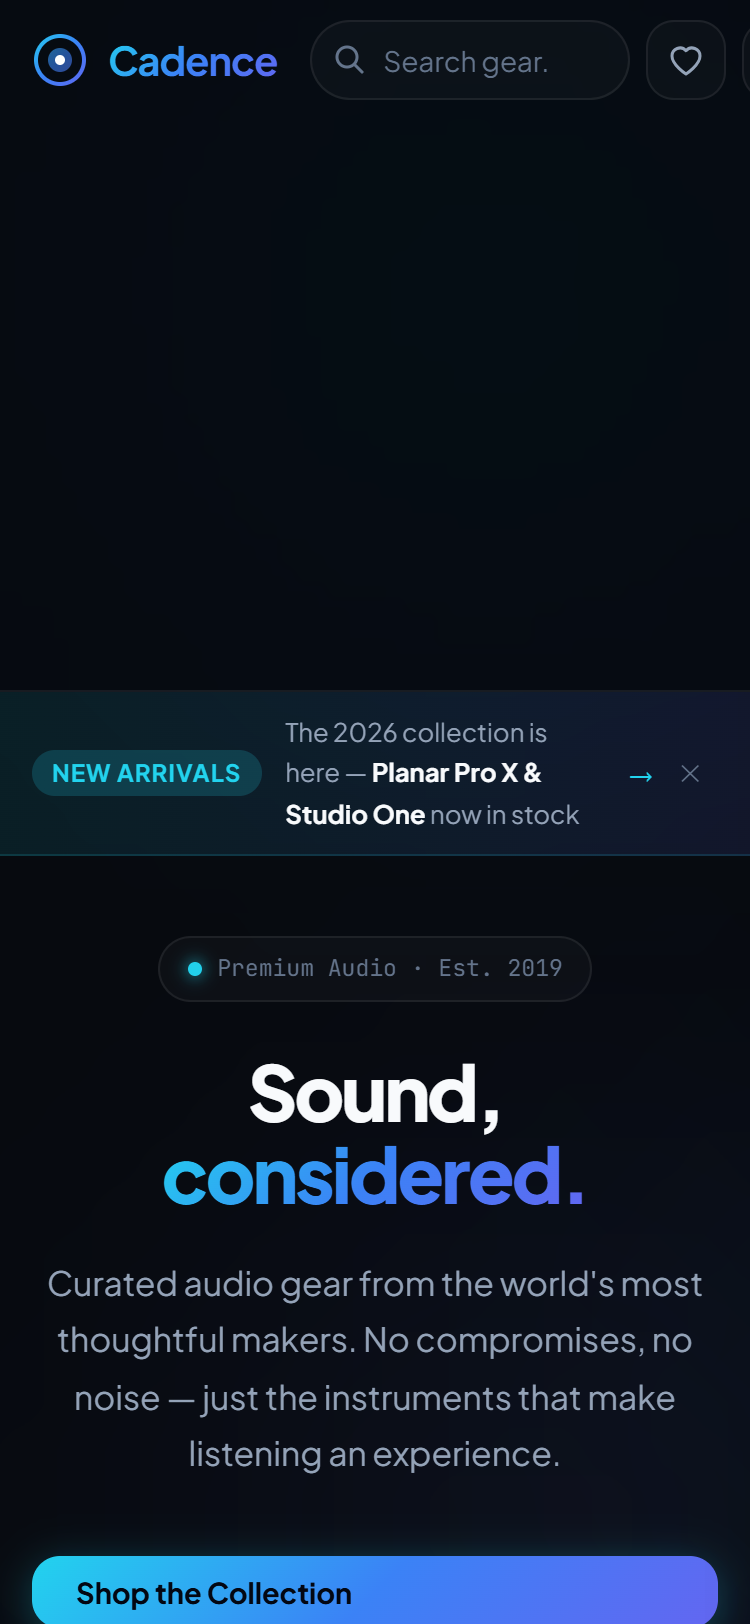
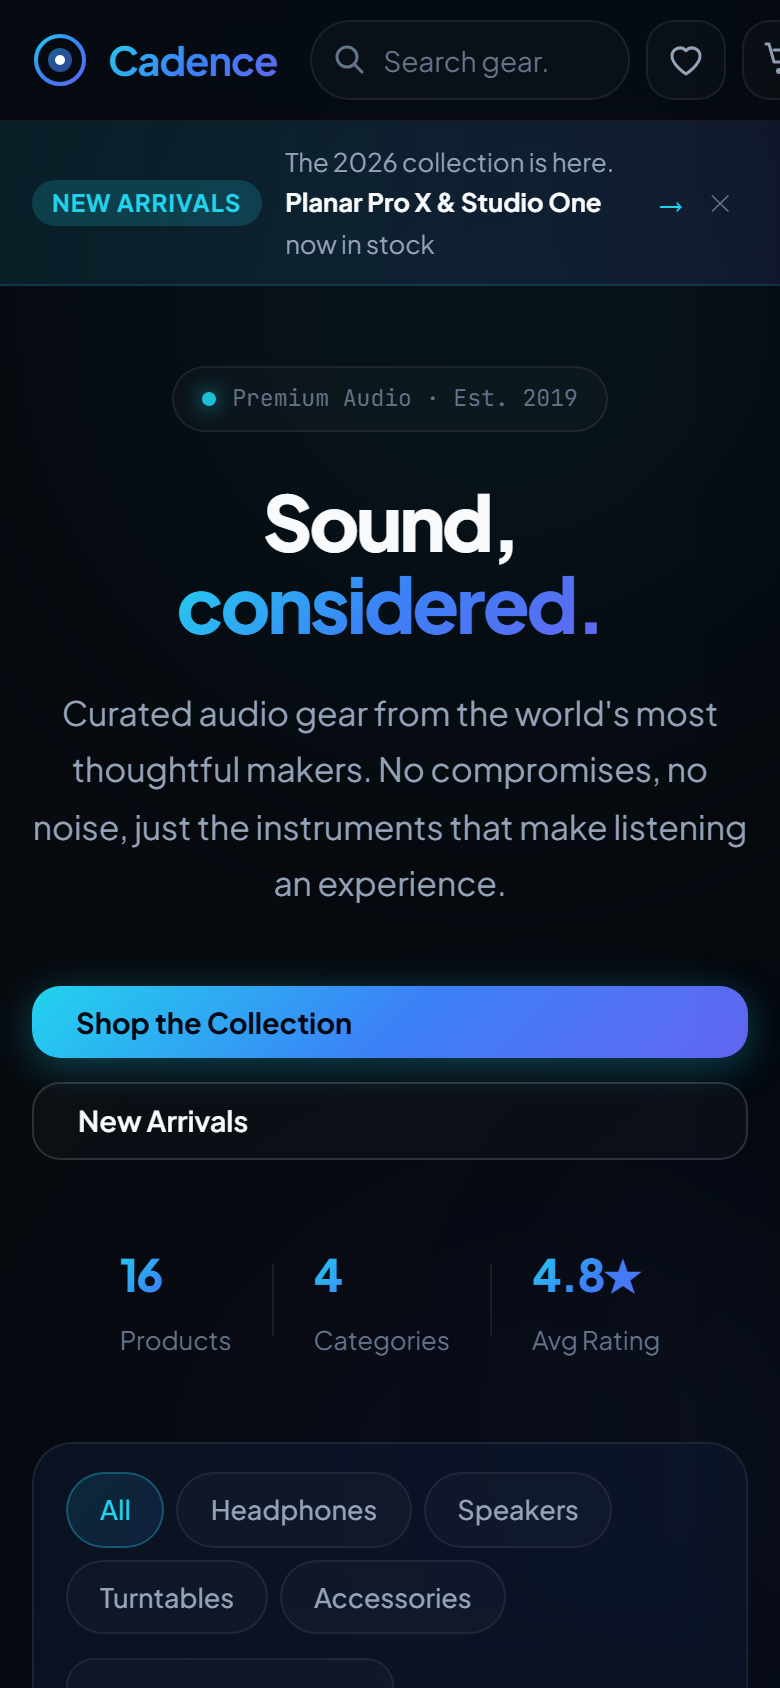
Fix mobile layout overflow and nav spacing

diff --git a/style.css b/style.css
@@ -427,23 +427,20 @@ ol {
 
 /* Mobile Nav */
 .mobile-nav {
-  display: none;
-  flex-direction: column;
-  gap: 2px;
+  display: none; flex-direction: column; gap: 2px;
+  position: absolute; top: 100%; left: 0; right: 0;
   padding: 12px 16px 16px;
   border-top: 1px solid var(--glass-border);
-  background: rgba(7, 10, 15, 0.92);
-  transform: translateY(-8px);
-  opacity: 0;
-  transition: opacity var(--t-base), transform var(--t-base);
+  background: rgba(7,10,15,0.92);
+  transform: translateY(-8px); opacity: 0; visibility: hidden;
+  transition: opacity var(--t-base), transform var(--t-base), visibility var(--t-base);
   pointer-events: none;
 }
-
-.mobile-nav.open {
-  opacity: 1;
-  transform: translateY(0);
-  pointer-events: auto;
-}
+.mobile-nav.open { 
+  opacity: 1; 
+  transform: translateY(0); 
+  pointer-events: auto; 
+  visibility: visible; }
 
 .mobile-nav-link {
   padding: 12px 16px;
